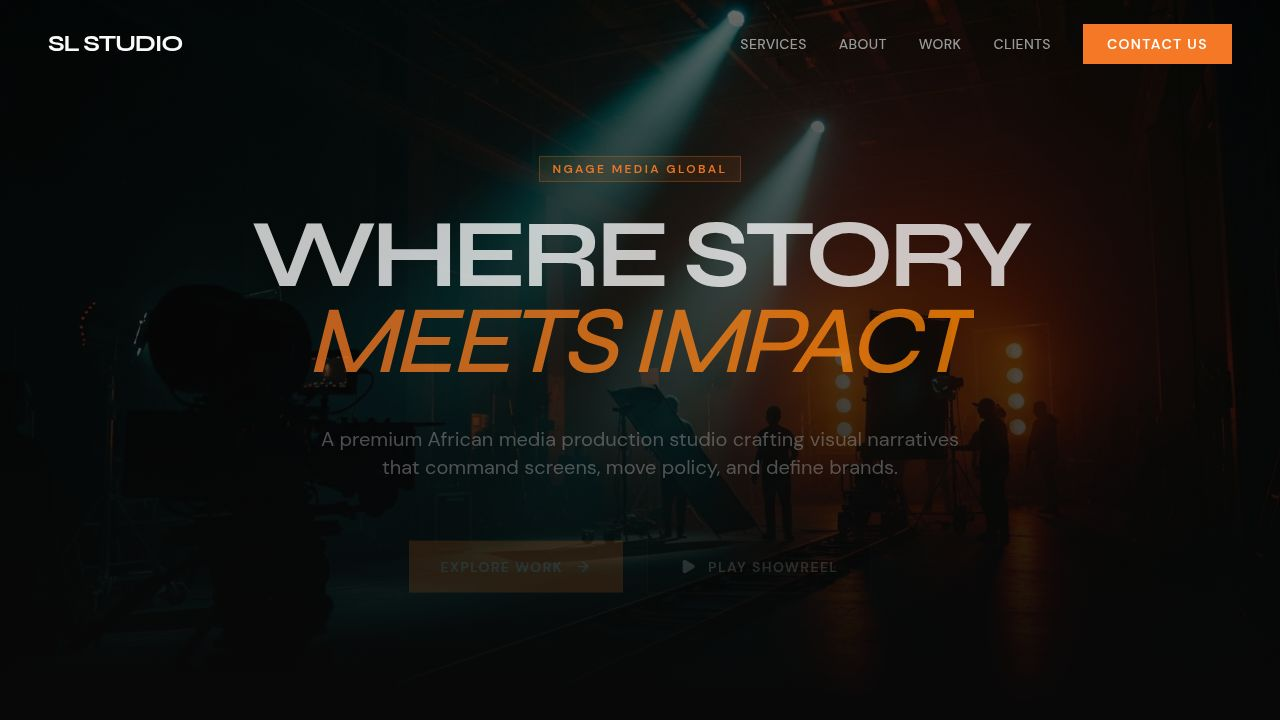
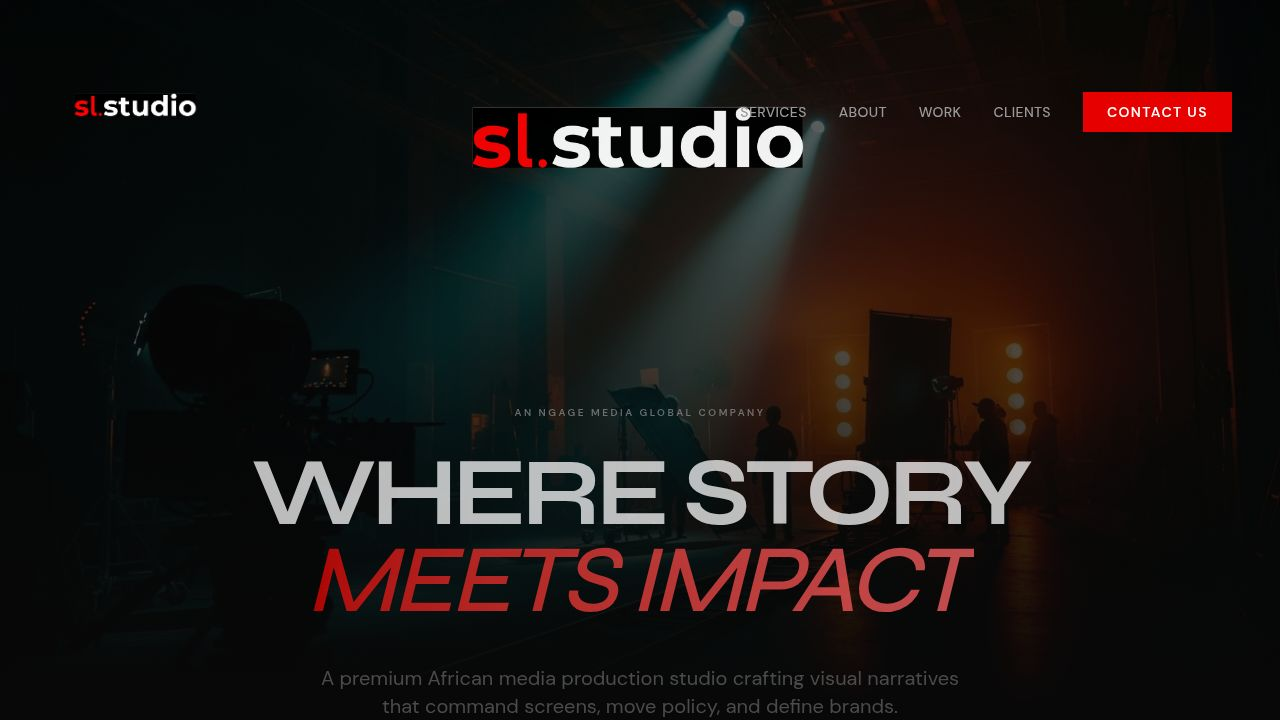
Configure site to serve from root directory
Update Vite configuration to set the base path to '/' and create a CNAME file for custom domain deployment.

Replit-Commit-Author: Agent
Replit-Commit-Session-Id: be65059b-b7c7-4abc-a036-2bdf512018e0
Replit-Commit-Checkpoint-Type: full_checkpoint
Replit-Commit-Event-Id: 2c3a6c04-5c0a-4111-b231-89fadb56d57e
Replit-Commit-Screenshot-Url: https://storage.googleapis.com/screenshot-production-us-central1/e12f08d0-d4c7-41e0-95b1-d571a2553260/be65059b-b7c7-4abc-a036-2bdf512018e0/0q63px3
Replit-Helium-Checkpoint-Created: true

diff --git a/artifacts/sl-studio/vite.config.ts b/artifacts/sl-studio/vite.config.ts
@@ -18,16 +18,8 @@ if (Number.isNaN(port) || port <= 0) {
   throw new Error(`Invalid PORT value: "${rawPort}"`);
 }
 
-const basePath = process.env.BASE_PATH;
-
-if (!basePath) {
-  throw new Error(
-    "BASE_PATH environment variable is required but was not provided.",
-  );
-}
-
 export default defineConfig({
-  base: basePath,
+  base: '/',
   plugins: [
     react(),
     tailwindcss(),